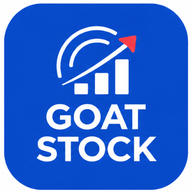
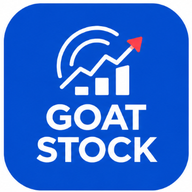
로고 화살표 3단 굴절로 교체
Claude-Session: https://claude.ai/code/session_01E32rGDtjFD6wTMJLuACF7G

diff --git a/sw.js b/sw.js
@@ -1,4 +1,4 @@
-const C="goat-v20261111e";
+const C="goat-v20261111f";
 self.addEventListener("install",e=>{e.waitUntil(caches.open(C).then(c=>c.addAll(["./","index.html","manifest.json","icon-192.png","icon-512.png","logo.png"])));self.skipWaiting()});
 self.addEventListener("activate",e=>{e.waitUntil(caches.keys().then(k=>Promise.all(k.filter(x=>x!==C).map(x=>caches.delete(x)))));self.clients.claim()});
 self.addEventListener("fetch",e=>{if(e.request.method!=="GET")return;e.respondWith(fetch(e.request).then(r=>{const cp=r.clone();caches.open(C).then(c=>c.put(e.request,cp)).catch(()=>{});return r}).catch(()=>caches.match(e.request)))});
